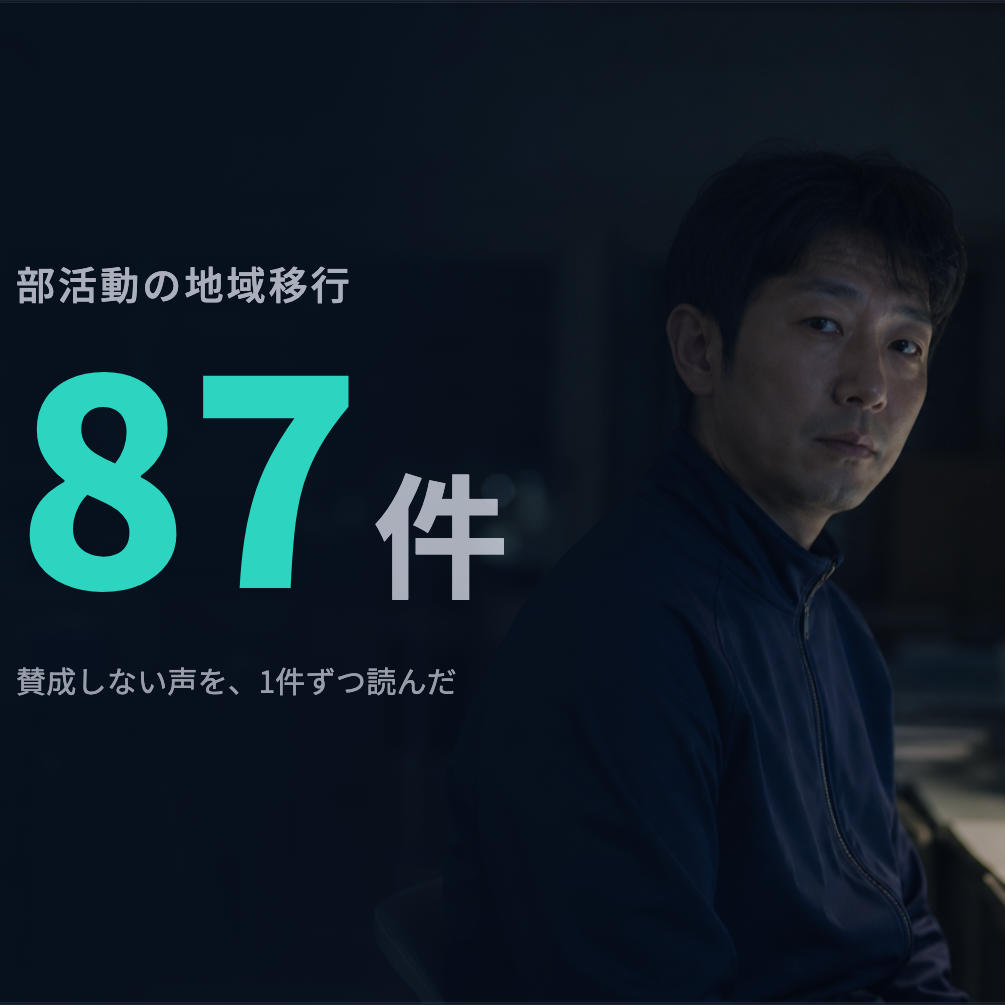
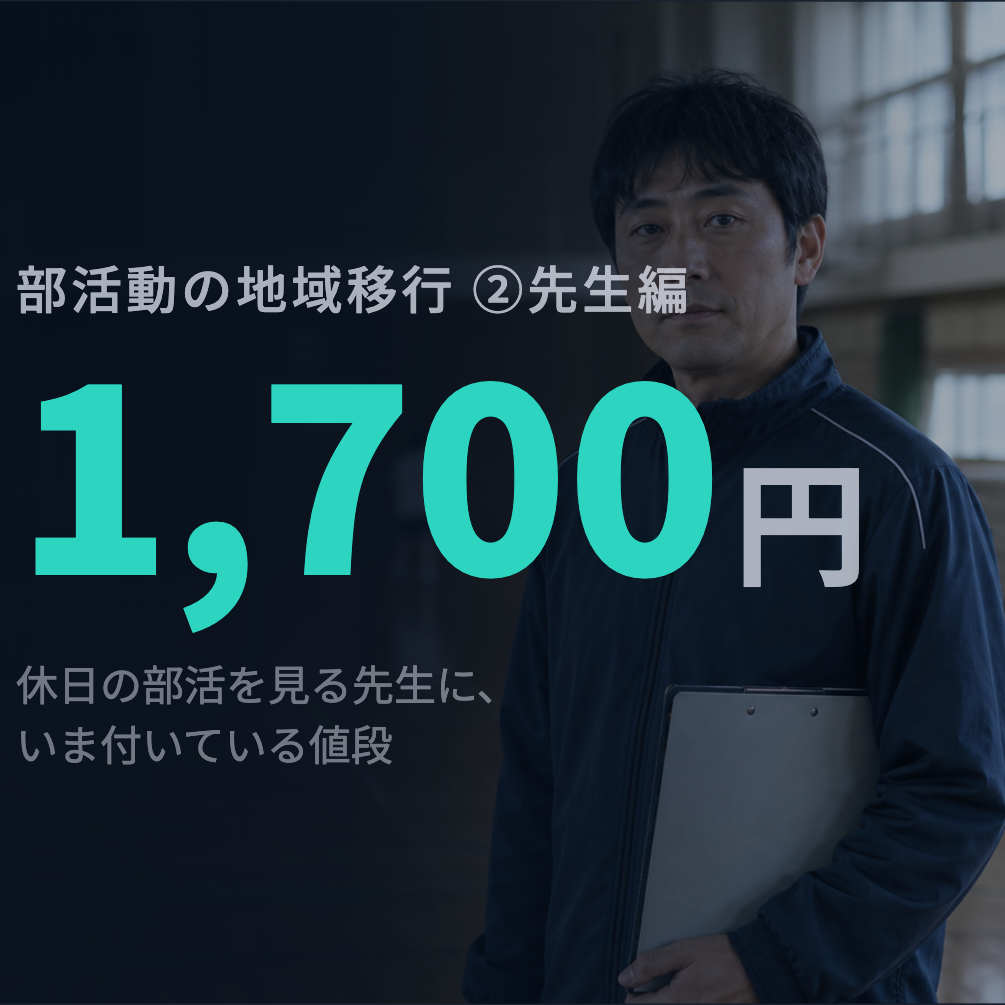
note: rebuild second bukatsu article images

diff --git a/content/note/drafts/figures/bukatsu2_fig2-reread.html b/content/note/drafts/figures/bukatsu2_fig2-reread.html
@@ -1,61 +1,6 @@
 <!doctype html>
-<html lang="ja">
-<head>
-  <meta charset="utf-8">
-  <meta name="viewport" content="width=1200, initial-scale=1">
-  <title>賛成していない87件を、言っている中身で分け直した</title>
-  <link rel="preconnect" href="https://fonts.googleapis.com">
-  <link rel="preconnect" href="https://fonts.gstatic.com" crossorigin>
-  <link href="https://fonts.googleapis.com/css2?family=Noto+Sans+JP:wght@400;500;700;900&display=swap" rel="stylesheet">
-  <style>
-    :root { --page:#07111E; --card-1:#0C1E35; --card-2:#0A1928; --card-3:#071522; --ink:#F0F4FF; --ink-70:rgba(240,244,255,.70); --ink-45:rgba(240,244,255,.45); --teal:#2DD4BF; --amber:#FBBF24; }
-    * { box-sizing:border-box; }
-    html,body { width:1200px; height:820px; margin:0; overflow:hidden; }
-    body { background:var(--page); color:var(--ink); font-family:'Noto Sans JP','Hiragino Kaku Gothic ProN',sans-serif; font-variant-numeric:tabular-nums; }
-    .canvas { position:relative; width:1200px; height:820px; padding:38px 52px 33px; overflow:hidden; border:1px solid rgba(255,255,255,.08); border-radius:16px; background:radial-gradient(circle at 86% 5%,rgba(45,212,191,.12) 0%,transparent 28%),linear-gradient(145deg,var(--card-1) 0%,var(--card-2) 60%,var(--card-3) 100%); }
-    .canvas::before { content:''; position:absolute; inset:0; background-image:linear-gradient(rgba(255,255,255,.025) 1px,transparent 1px),linear-gradient(90deg,rgba(255,255,255,.025) 1px,transparent 1px); background-size:48px 48px; pointer-events:none; }
-    .content { position:relative; z-index:1; }
-    h1 { margin:0; font-size:22px; font-weight:700; line-height:1.45; }
-    .subtitle { margin:4px 0 0; color:var(--ink-70); font-size:15px; line-height:1.5; }
-    .chart { position:relative; width:1096px; margin-top:30px; }
-    .grid-lines { position:absolute; left:318px; top:142px; width:500px; height:405px; pointer-events:none; background:repeating-linear-gradient(90deg,rgba(240,244,255,.06) 0 1px,transparent 1px 166.6667px); border-left:1px solid rgba(240,244,255,.06); }
-    .row { display:grid; grid-template-columns:250px 500px 70px; column-gap:16px; height:64px; }
-    .label,.bar-wrap,.value { display:flex; align-items:center; }
-    .label { justify-content:flex-end; color:var(--ink); font-size:15px; line-height:1.35; text-align:right; }
-    .bar-wrap { position:relative; }
-    .bar { height:48px; border-radius:0 4px 4px 0; }
-    .b30 { width:500px; background:var(--teal); }.b20 { width:333px; background:rgba(45,212,191,.70); }.b17 { width:283px; background:rgba(45,212,191,.62); }.b8 { width:133px; background:rgba(45,212,191,.40); }.b4 { width:67px; background:rgba(45,212,191,.28); }
-    .value { padding-left:2px; color:var(--ink-70); font-size:20px; font-weight:900; }
-    .value.primary { color:var(--teal); }
-    .axis { display:grid; grid-template-columns:250px 500px 70px; column-gap:16px; margin-top:2px; }
-    .axis-label { grid-column:2; display:flex; justify-content:space-between; width:500px; color:var(--ink-45); font-size:12px; line-height:1; }
-    .axis-unit { grid-column:3; align-self:end; color:var(--ink-45); font-size:12px; line-height:1; }
-    .bracket { position:absolute; left:894px; top:0; height:128px; display:flex; align-items:center; padding-left:24px; border-left:2px solid var(--amber); }
-    .bracket::before,.bracket::after { content:''; position:absolute; left:0; width:14px; border-top:2px solid var(--amber); }.bracket::before { top:8px; }.bracket::after { bottom:8px; }
-    .bracket-main { color:var(--amber); font-size:26px; font-weight:900; line-height:1.2; white-space:nowrap; }.bracket-sub { margin-top:4px; color:var(--ink-70); font-size:14px; line-height:1.35; white-space:nowrap; }
-    .notes { margin:29px 0 0 266px; color:var(--ink-45); font-size:12px; line-height:1.65; }
-    .credit { position:absolute; z-index:1; right:28px; bottom:20px; color:var(--ink-45); font-size:12px; letter-spacing:.08em; line-height:1; }
-  </style>
-</head>
-<body>
-  <main class="canvas" aria-label="賛成していない87件を、言っている中身で分け直した">
-    <div class="content">
-      <h1>賛成していない87件を、言っている中身で分け直した</h1>
-      <p class="subtitle">編集部が87件すべての本文を読んで分類しました</p>
-      <div class="grid-lines"></div>
-      <section class="chart" aria-label="87件の再読結果">
-        <div class="row"><div class="label">直すべきは移行ではなく制度と待遇</div><div class="bar-wrap"><div class="bar b30"></div></div><div class="value primary">30件</div></div>
-        <div class="row"><div class="label">移しても負担は減らない・<br>むしろ増える</div><div class="bar-wrap"><div class="bar b17"></div></div><div class="value">17件</div></div>
-        <div class="row"><div class="label">その他（実態の訴え・<br>分類が難しいもの）</div><div class="bar-wrap"><div class="bar b20"></div></div><div class="value">20件</div></div>
-        <div class="row"><div class="label">やりたい先生だけが担えばよい</div><div class="bar-wrap"><div class="bar b8"></div></div><div class="value">8件</div></div>
-        <div class="row"><div class="label">移行や廃止で失われるものへの不安</div><div class="bar-wrap"><div class="bar b8"></div></div><div class="value">8件</div></div>
-        <div class="row"><div class="label">移行ではなく部活そのものを<br>廃止すべき</div><div class="bar-wrap"><div class="bar b4"></div></div><div class="value">4件</div></div>
-        <div class="axis"><div class="axis-label"><span>0</span><span>10</span><span>20</span><span>30</span></div><div class="axis-unit">件</div></div>
-        <aside class="bracket"><div><div class="bracket-main">合わせて47件</div><div class="bracket-sub">87件の半分以上</div></div></aside>
-      </section>
-      <p class="notes">※編集部が87件すべての本文を読んで分類しました。キーワード抽出は使っていません<br>※「その他」は内容で分類できなかったものをまとめた区分のため、件数の順にかかわらず下に置いています</p>
-    </div>
-    <div class="credit">SNS反応まっぷ</div>
-  </main>
-</body>
-</html>
+<html lang="ja"><head><meta charset="utf-8"><meta name="viewport" content="width=800,initial-scale=1">
+<link href="https://fonts.googleapis.com/css2?family=Noto+Sans+JP:wght@400;500;700;900&display=swap" rel="stylesheet">
+<style>
+:root{--page:#07111E;--c1:#0C1E35;--c2:#0A1928;--c3:#071522;--ink:#F0F4FF;--i70:rgba(240,244,255,.70);--i45:rgba(240,244,255,.45);--teal:#2DD4BF;--amber:#FBBF24}*{box-sizing:border-box}html,body,.canvas{width:800px;height:1000px;margin:0;overflow:hidden}body{background:var(--page);color:var(--ink);font-family:'Noto Sans JP',sans-serif;font-variant-numeric:tabular-nums}.canvas{position:relative;padding:36px 40px;background:radial-gradient(circle at 86% 5%,rgba(45,212,191,.12),transparent 28%),linear-gradient(145deg,var(--c1),var(--c2) 60%,var(--c3));border:1px solid rgba(255,255,255,.08);border-radius:16px}.canvas:before{content:'';position:absolute;inset:0;background-image:linear-gradient(rgba(255,255,255,.025) 1px,transparent 1px),linear-gradient(90deg,rgba(255,255,255,.025) 1px,transparent 1px);background-size:48px 48px}.content{position:relative;z-index:1}h1{margin:0;font-size:44px;line-height:1.27}.sub{margin:10px 0 17px;color:var(--i70);font-size:26px;line-height:1.4}.chart{position:relative}.row{margin-bottom:10px}.label{margin-bottom:8px;font-size:30px;font-weight:500;line-height:1.25}.barline{display:flex;align-items:center;gap:14px}.bar{height:56px;border-radius:0 6px 6px 0}.v{font-size:48px;font-weight:900;line-height:1;white-space:nowrap;color:var(--i70)}.primary{color:var(--teal)}.a{width:444px;background:var(--teal)}.b{width:252px;background:rgba(45,212,191,.62)}.c{width:296px;background:rgba(45,212,191,.70)}.d{width:118px;background:rgba(45,212,191,.40)}.e{width:118px;background:rgba(45,212,191,.40)}.f{width:59px;background:rgba(45,212,191,.28)}.callout{display:flex;align-items:center;gap:18px;margin:8px 0 14px;padding:13px 0 13px 18px;border-left:2px solid var(--amber);border-top:2px solid var(--amber);border-bottom:2px solid var(--amber)}.callout b{color:var(--amber);font-size:44px;font-weight:900;line-height:1.15}.callout span{color:var(--i70);font-size:26px;line-height:1.3}.axis{display:flex;justify-content:space-between;width:444px;margin-top:-2px;color:var(--i45);font-size:24px}.notes{margin:10px 0 0;color:var(--i45);font-size:24px;line-height:1.4}.credit{position:absolute;z-index:1;right:28px;bottom:20px;color:var(--i45);font-size:24px;letter-spacing:.08em}
+</style></head><body><main class="canvas"><div class="content"><h1>賛成しなかった投稿を、<br>言っている中身で分け直した</h1><p class="sub">編集部が87件すべての本文を読んで分類しました</p><section class="chart"><div class="row"><div class="label">直すべきは制度と待遇</div><div class="barline"><div class="bar a"></div><b class="v primary">30件</b></div></div><div class="row"><div class="label">移しても負担は減らない</div><div class="barline"><div class="bar b"></div><b class="v">17件</b></div></div><div class="callout"><b>合わせて47件</b><span>87件の半分以上</span></div><div class="row"><div class="label">その他（分類が難しいもの）</div><div class="barline"><div class="bar c"></div><b class="v">20件</b></div></div><div class="row"><div class="label">やりたい先生だけが担う</div><div class="barline"><div class="bar d"></div><b class="v">8件</b></div></div><div class="row"><div class="label">失われるものへの不安</div><div class="barline"><div class="bar e"></div><b class="v">8件</b></div></div><div class="row"><div class="label">部活そのものを廃止すべき</div><div class="barline"><div class="bar f"></div><b class="v">4件</b></div></div><div class="axis"><span>0</span><span>30件</span></div></section><p class="notes">※編集部が87件すべての本文を読んで分類しました。キーワード抽出は使っていません<br>※「その他」は内容で分類できなかった区分のため、件数の順にかかわらず下に置いています</p></div><div class="credit">SNS反応まっぷ</div></main></body></html>

diff --git a/content/note/drafts/figures/bukatsu2_fig3-answer.html b/content/note/drafts/figures/bukatsu2_fig3-answer.html
@@ -1,57 +1,6 @@
 <!doctype html>
-<html lang="ja">
-<head>
-  <meta charset="utf-8">
-  <meta name="viewport" content="width=1200, initial-scale=1">
-  <title>87件の指摘と、資料の答え合わせ</title>
-  <link rel="preconnect" href="https://fonts.googleapis.com">
-  <link rel="preconnect" href="https://fonts.gstatic.com" crossorigin>
-  <link href="https://fonts.googleapis.com/css2?family=Noto+Sans+JP:wght@400;500;700;900&display=swap" rel="stylesheet">
-  <style>
-    :root { --page:#07111E; --card-1:#0C1E35; --card-2:#0A1928; --card-3:#071522; --ink:#F0F4FF; --ink-70:rgba(240,244,255,.70); --ink-45:rgba(240,244,255,.45); --red:#F87171; --amber:#FBBF24; --gray:#64748B; }
-    * { box-sizing:border-box; }
-    html,body { width:1200px; height:760px; margin:0; overflow:hidden; }
-    body { background:var(--page); color:var(--ink); font-family:'Noto Sans JP','Hiragino Kaku Gothic ProN',sans-serif; font-variant-numeric:tabular-nums; }
-    .canvas { position:relative; width:1200px; height:760px; padding:40px 52px 33px; overflow:hidden; border:1px solid rgba(255,255,255,.08); border-radius:16px; background:radial-gradient(circle at 86% 5%,rgba(45,212,191,.12) 0%,transparent 28%),linear-gradient(145deg,var(--card-1) 0%,var(--card-2) 60%,var(--card-3) 100%); }
-    .canvas::before { content:''; position:absolute; inset:0; background-image:linear-gradient(rgba(255,255,255,.025) 1px,transparent 1px),linear-gradient(90deg,rgba(255,255,255,.025) 1px,transparent 1px); background-size:48px 48px; pointer-events:none; }
-    .content { position:relative; z-index:1; }
-    h1 { margin:0 0 26px; font-size:22px; font-weight:700; line-height:1.45; }
-    .heading,.row { display:grid; grid-template-columns:32fr 48fr 20fr; column-gap:24px; }
-    .heading { padding:0 16px 10px; color:var(--ink-45); font-size:12px; line-height:1; }
-    .row { min-height:156px; padding:19px 16px 16px; border-top:1px solid rgba(255,255,255,.08); }
-    .statement { font-size:19px; font-weight:700; line-height:1.55; }
-    .count { margin-top:7px; color:var(--ink-45); font-size:13px; line-height:1.35; }
-    .evidence { font-size:15px; line-height:1.68; }
-    .source { margin-top:9px; color:var(--ink-45); font-size:11px; line-height:1.45; }
-    .verdict { align-self:center; font-size:20px; font-weight:900; line-height:1.4; }
-    .verdict.hit { color:var(--red); }.verdict.partial { color:var(--amber); }.verdict.open { color:var(--gray); }
-    .credit { position:absolute; z-index:1; right:28px; bottom:20px; color:var(--ink-45); font-size:12px; letter-spacing:.08em; line-height:1; }
-  </style>
-</head>
-<body>
-  <main class="canvas" aria-label="87件の指摘と、資料の答え合わせ">
-    <div class="content">
-      <h1>87件の指摘と、資料の答え合わせ</h1>
-      <div class="heading"><div>87件が言ったこと</div><div>資料はどうなっているか</div><div>判定</div></div>
-      <section aria-label="指摘と資料の比較">
-        <article class="row">
-          <div><div class="statement">移しても先生は出続ける</div><div class="count">17件</div></div>
-          <div><div class="evidence">国は教員の兼職兼業を「積極的に許可を行うことが必要」とし、先行した神栖市の指導者にも「兼職兼業の申請をした教職員」が明記されている</div><div class="source">出典：文科省ガイドライン／神栖市Q&amp;A</div></div>
-          <div class="verdict hit">当たっていた</div>
-        </article>
-        <article class="row">
-          <div><div class="statement">先生の時間に値段がついていない</div><div class="count">30件</div></div>
-          <div><div class="evidence">神栖市は1時間1,700円。ただし兼職兼業を許可する条件は「単月100時間、複数月平均80時間を超えないこと」</div><div class="source">出典：神栖市Q&amp;A／厚労省 労災認定基準</div></div>
-          <div class="verdict partial">半分だけ<br>答えが出た</div>
-        </article>
-        <article class="row">
-          <div><div class="statement">指導者は集まるのか</div></div>
-          <div><div class="evidence">国も「地域の多様な人材等から、質・量ともに十分な指導者を確保することが不可欠」と課題に挙げている</div><div class="source">出典：文科省ガイドライン</div></div>
-          <div class="verdict open">未解決</div>
-        </article>
-      </section>
-    </div>
-    <div class="credit">SNS反応まっぷ</div>
-  </main>
-</body>
-</html>
+<html lang="ja"><head><meta charset="utf-8"><meta name="viewport" content="width=800,initial-scale=1">
+<link href="https://fonts.googleapis.com/css2?family=Noto+Sans+JP:wght@400;500;700;900&display=swap" rel="stylesheet">
+<style>
+:root{--page:#07111E;--c1:#0C1E35;--c2:#0A1928;--c3:#071522;--ink:#F0F4FF;--i70:rgba(240,244,255,.70);--i45:rgba(240,244,255,.45);--red:#F87171;--amber:#FBBF24;--gray:#64748B}*{box-sizing:border-box}html,body,.canvas{width:800px;height:1100px;margin:0;overflow:hidden}body{background:var(--page);color:var(--ink);font-family:'Noto Sans JP',sans-serif;font-variant-numeric:tabular-nums}.canvas{position:relative;padding:38px 40px;background:radial-gradient(circle at 86% 5%,rgba(45,212,191,.12),transparent 28%),linear-gradient(145deg,var(--c1),var(--c2) 60%,var(--c3));border:1px solid rgba(255,255,255,.08);border-radius:16px}.canvas:before{content:'';position:absolute;inset:0;background-image:linear-gradient(rgba(255,255,255,.025) 1px,transparent 1px),linear-gradient(90deg,rgba(255,255,255,.025) 1px,transparent 1px);background-size:48px 48px}.content{position:relative;z-index:1}h1{margin:0 0 20px;font-size:44px;line-height:1.3}.item{padding:24px 0 26px;border-top:1px solid rgba(255,255,255,.08)}.worry{font-size:30px;font-weight:700;line-height:1.35}.count{margin-left:10px;color:var(--i45);font-size:26px;font-weight:400}.evidence{margin-top:12px;color:var(--i70);font-size:30px;line-height:1.45}.result{margin-top:13px;font-size:44px;font-weight:900;line-height:1.15}.hit{color:var(--red)}.partial{color:var(--amber)}.open{color:var(--gray)}.source{margin-top:8px;color:var(--i45);font-size:24px;line-height:1.35}.credit{position:absolute;z-index:1;right:28px;bottom:20px;color:var(--i45);font-size:24px;letter-spacing:.08em}
+</style></head><body><main class="canvas"><div class="content"><h1>87件の指摘と、資料の答え合わせ</h1><article class="item"><div class="worry">心配　移しても先生は出続ける<span class="count">17件</span></div><div class="evidence">国は兼職兼業を「積極的に許可」。<br>神栖市も教職員の指導者を明記</div><div class="result hit">当たっていた</div><div class="source">出典：文科省ガイドライン／神栖市Q&amp;A</div></article><article class="item"><div class="worry">心配　先生の時間に値段がついていない<span class="count">30件</span></div><div class="evidence">神栖市は1時間1,700円。許可の条件は<br>単月100時間、複数月平均80時間まで</div><div class="result partial">半分だけ答えが出た</div><div class="source">出典：神栖市Q&amp;A／厚労省 労災認定基準</div></article><article class="item"><div class="worry">心配　指導者は集まるのか</div><div class="evidence">国も、十分な指導者の確保は<br>不可欠な課題だと挙げている</div><div class="result open">未解決</div><div class="source">出典：文科省ガイドライン</div></article></div><div class="credit">SNS反応まっぷ</div></main></body></html>

diff --git a/content/note/drafts/figures/bukatsu2_fig1-227.html b/content/note/drafts/figures/bukatsu2_fig1-227.html
@@ -1,53 +1,6 @@
 <!doctype html>
-<html lang="ja">
-<head>
-  <meta charset="utf-8">
-  <meta name="viewport" content="width=1200, initial-scale=1">
-  <title>先生の負担を語る227件の内訳</title>
-  <link rel="preconnect" href="https://fonts.googleapis.com">
-  <link rel="preconnect" href="https://fonts.gstatic.com" crossorigin>
-  <link href="https://fonts.googleapis.com/css2?family=Noto+Sans+JP:wght@400;500;700;900&display=swap" rel="stylesheet">
-  <style>
-    :root { --page:#07111E; --card-1:#0C1E35; --card-2:#0A1928; --card-3:#071522; --ink:#F0F4FF; --ink-70:rgba(240,244,255,.70); --ink-45:rgba(240,244,255,.45); --teal:#2DD4BF; --red:#F87171; --amber:#FBBF24; --gray:#64748B; }
-    * { box-sizing:border-box; }
-    html, body { width:1200px; height:380px; margin:0; overflow:hidden; }
-    body { background:var(--page); color:var(--ink); font-family:'Noto Sans JP','Hiragino Kaku Gothic ProN',sans-serif; font-variant-numeric:tabular-nums; }
-    .canvas { position:relative; width:1200px; height:380px; padding:42px 52px 34px; overflow:hidden; border:1px solid rgba(255,255,255,.08); border-radius:16px; background:radial-gradient(circle at 86% 5%,rgba(45,212,191,.12) 0%,transparent 28%),linear-gradient(145deg,var(--card-1) 0%,var(--card-2) 60%,var(--card-3) 100%); }
-    .canvas::before { content:''; position:absolute; inset:0; background-image:linear-gradient(rgba(255,255,255,.025) 1px,transparent 1px),linear-gradient(90deg,rgba(255,255,255,.025) 1px,transparent 1px); background-size:48px 48px; pointer-events:none; }
-    .content { position:relative; z-index:1; }
-    h1 { margin:0; color:var(--ink); font-size:28px; font-weight:700; line-height:1.4; }
-    .bar { display:flex; gap:2px; height:72px; margin-top:28px; overflow:hidden; border-radius:8px; background:rgba(7,17,30,.72); }
-    .segment { display:flex; align-items:center; justify-content:center; min-width:0; color:#07111E; font-size:24px; font-weight:700; line-height:1; }
-    .support { flex:136 1 0; background:var(--teal); }
-    .cautious { flex:44 1 0; background:var(--red); }
-    .conditional { flex:43 1 0; background:var(--amber); }
-    .neutral { flex:4 1 0; background:var(--gray); }
-    .legend { display:flex; align-items:center; gap:22px; margin-top:26px; color:var(--ink-70); font-size:19px; line-height:1.35; white-space:nowrap; }
-    .legend-item { display:flex; align-items:center; gap:9px; }
-    .dot { width:10px; height:10px; flex:0 0 auto; border-radius:3px; }
-    .dot.support { background:var(--teal); }.dot.cautious { background:var(--red); }.dot.conditional { background:var(--amber); }.dot.neutral { background:var(--gray); }
-    .count { color:var(--ink); font-weight:700; }
-    .credit { position:absolute; z-index:1; right:28px; bottom:20px; color:var(--ink-45); font-size:12px; letter-spacing:.08em; line-height:1; }
-  </style>
-</head>
-<body>
-  <main class="canvas" aria-label="先生の負担を語る227件の内訳">
-    <div class="content">
-      <h1>先生の負担を語る227件の内訳</h1>
-      <div class="bar" role="img" aria-label="移行支持136件、慎重・反対44件、条件付き・改善要求43件、中立・情報4件">
-        <div class="segment support">136件</div>
-        <div class="segment cautious">44件</div>
-        <div class="segment conditional">43件</div>
-        <div class="segment neutral" aria-label="中立・情報4件"></div>
-      </div>
-      <div class="legend" aria-label="凡例">
-        <div class="legend-item"><span class="dot support"></span><span>移行支持</span><span class="count">136件</span></div>
-        <div class="legend-item"><span class="dot cautious"></span><span>慎重・反対</span><span class="count">44件</span></div>
-        <div class="legend-item"><span class="dot conditional"></span><span>条件付き・改善要求</span><span class="count">43件</span></div>
-        <div class="legend-item"><span class="dot neutral"></span><span>中立・情報</span><span class="count">4件</span></div>
-      </div>
-    </div>
-    <div class="credit">SNS反応まっぷ</div>
-  </main>
-</body>
-</html>
+<html lang="ja"><head><meta charset="utf-8"><meta name="viewport" content="width=800,initial-scale=1">
+<link href="https://fonts.googleapis.com/css2?family=Noto+Sans+JP:wght@400;500;700;900&display=swap" rel="stylesheet">
+<style>
+:root{--page:#07111E;--c1:#0C1E35;--c2:#0A1928;--c3:#071522;--ink:#F0F4FF;--i70:rgba(240,244,255,.70);--i45:rgba(240,244,255,.45);--teal:#2DD4BF;--red:#F87171;--amber:#FBBF24;--gray:#64748B}*{box-sizing:border-box}html,body,.canvas{width:800px;height:420px;margin:0;overflow:hidden}body{background:var(--page);color:var(--ink);font-family:'Noto Sans JP',sans-serif;font-variant-numeric:tabular-nums}.canvas{position:relative;padding:38px 40px;background:radial-gradient(circle at 86% 5%,rgba(45,212,191,.12),transparent 28%),linear-gradient(145deg,var(--c1),var(--c2) 60%,var(--c3));border:1px solid rgba(255,255,255,.08);border-radius:16px}.canvas:before{content:'';position:absolute;inset:0;background-image:linear-gradient(rgba(255,255,255,.025) 1px,transparent 1px),linear-gradient(90deg,rgba(255,255,255,.025) 1px,transparent 1px);background-size:48px 48px}h1,.bar,.legend{position:relative;z-index:1}h1{margin:0;font-size:44px;line-height:1.25}.bar{display:flex;gap:2px;height:90px;margin-top:28px;background:rgba(7,17,30,.72);border-radius:10px;overflow:hidden}.seg{display:flex;align-items:center;justify-content:center;color:#07111E;font-size:34px;font-weight:900}.a{flex:136;background:var(--teal)}.b{flex:44;background:var(--red)}.c{flex:43;background:var(--amber)}.d{flex:4;background:var(--gray)}.legend{display:grid;grid-template-columns:380px 1fr;gap:14px 12px;margin-top:28px;color:var(--i70);font-size:30px;font-weight:500;line-height:1.15}.item{display:flex;align-items:center;gap:10px;white-space:nowrap}.dot{width:16px;height:16px;border-radius:4px;flex:none}.item b{color:var(--ink);font-weight:700}.credit{position:absolute;z-index:1;right:28px;bottom:20px;color:var(--i45);font-size:24px;letter-spacing:.08em}
+</style></head><body><main class="canvas"><h1>先生の負担を語る227件の内訳</h1><div class="bar"><div class="seg a">136件</div><div class="seg b">44件</div><div class="seg c">43件</div><div class="seg d"></div></div><div class="legend"><div class="item"><i class="dot" style="background:var(--teal)"></i>移行支持 <b>136件</b></div><div class="item"><i class="dot" style="background:var(--red)"></i>慎重・反対 <b>44件</b></div><div class="item"><i class="dot" style="background:var(--amber)"></i>条件付き・改善要求 <b>43件</b></div><div class="item"><i class="dot" style="background:var(--gray)"></i>中立・情報 <b>4件</b></div></div><div class="credit">SNS反応まっぷ</div></main></body></html>

diff --git a/content/note/drafts/figures/bukatsu2_note-header.html b/content/note/drafts/figures/bukatsu2_note-header.html
@@ -1,123 +1,3 @@
-<!doctype html>
-<html lang="ja">
-<head>
-  <meta charset="utf-8">
-  <meta name="viewport" content="width=1280, initial-scale=1">
-  <title>部活動の地域移行｜賛成しない声を読む</title>
-  <link rel="preconnect" href="https://fonts.googleapis.com">
-  <link rel="preconnect" href="https://fonts.gstatic.com" crossorigin>
-  <link href="https://fonts.googleapis.com/css2?family=Noto+Sans+JP:wght@400;500;700;900&display=swap" rel="stylesheet">
-  <style>
-    :root {
-      --page: #07111E;
-      --ink: #F0F4FF;
-      --ink-70: rgba(240,244,255,0.70);
-      --ink-45: rgba(240,244,255,0.45);
-      --teal: #2DD4BF;
-    }
-    * { box-sizing: border-box; }
-    html, body { width: 1280px; height: 670px; margin: 0; overflow: hidden; }
-    body {
-      background: var(--page);
-      color: var(--ink);
-      font-family: 'Noto Sans JP', 'Hiragino Kaku Gothic ProN', sans-serif;
-      font-variant-numeric: tabular-nums;
-    }
-    .canvas {
-      position: relative;
-      width: 1280px;
-      height: 670px;
-      overflow: hidden;
-      border: 1px solid rgba(255,255,255,0.08);
-      border-radius: 16px;
-      background: var(--page);
-    }
-    .photo, .gradient, .shade {
-      position: absolute;
-      inset: 0;
-      width: 100%;
-      height: 100%;
-      pointer-events: none;
-    }
-    .photo { object-fit: cover; object-position: center center; }
-    .gradient {
-      background: linear-gradient(90deg, rgba(7,17,30,0.94) 0%, rgba(7,17,30,0.86) 42%, rgba(7,17,30,0.15) 72%, rgba(7,17,30,0) 100%);
-    }
-    .shade { background: rgba(7,17,30,0.25); }
-    .canvas::before {
-      content: '';
-      position: absolute;
-      z-index: 1;
-      inset: 0;
-      border: 1px solid rgba(255,255,255,0.08);
-      pointer-events: none;
-    }
-    .content {
-      position: absolute;
-      z-index: 2;
-      top: 170px;
-      left: 315px;
-      width: 650px;
-      text-align: left;
-    }
-    .eyebrow {
-      margin: 0 0 14px;
-      color: var(--ink-70);
-      font-size: 26px;
-      font-weight: 500;
-      letter-spacing: .08em;
-      line-height: 1.35;
-    }
-    .count {
-      display: flex;
-      align-items: baseline;
-      height: 202px;
-      color: var(--teal);
-      font-weight: 900;
-      letter-spacing: -.04em;
-      line-height: .95;
-      white-space: nowrap;
-    }
-    .number { font-size: 190px; }
-    .unit {
-      margin-left: 8px;
-      color: var(--ink-70);
-      font-size: 90px;
-      font-weight: 700;
-      letter-spacing: -.02em;
-    }
-    .subtitle {
-      margin: 18px 0 0;
-      color: rgba(240,244,255,0.62);
-      font-size: 20px;
-      font-weight: 400;
-      letter-spacing: .01em;
-      line-height: 1.4;
-      white-space: nowrap;
-    }
-    .credit {
-      position: absolute;
-      z-index: 2;
-      right: 28px;
-      bottom: 20px;
-      color: var(--ink-45);
-      font-size: 12px;
-      letter-spacing: .08em;
-      line-height: 1;
-    }
-  </style>
-</head>
-<body>
-  <main class="canvas" aria-label="部活動の地域移行、賛成しない声を読む">
-    <img class="photo" src="../photos/teacher-staffroom-night.png" alt="夜の職員室で机から振り返る学校教員">
-    <div class="gradient" aria-hidden="true"></div>
-    <div class="shade" aria-hidden="true"></div>
-    <div class="content">
-      <p class="eyebrow">部活動の地域移行</p>
-      <div class="count" aria-label="87件"><span class="number">87</span><span class="unit">件</span></div>
-      <p class="subtitle">賛成しない声を、1件ずつ読んだ</p>
-    </div>
-    <div class="credit">SNS反応まっぷ</div>
-  </main>
-</body>
-</html>
+<!doctype html><html lang="ja"><head><meta charset="utf-8"><meta name="viewport" content="width=1280,initial-scale=1"><link rel="preconnect" href="https://fonts.googleapis.com"><link rel="preconnect" href="https://fonts.gstatic.com" crossorigin><link href="https://fonts.googleapis.com/css2?family=Noto+Sans+JP:wght@400;500;700;900&display=swap" rel="stylesheet"><style>
+:root{--page:#07111E;--ink:#F0F4FF;--ink-70:rgba(240,244,255,.70);--ink-45:rgba(240,244,255,.45);--teal:#2DD4BF}*{box-sizing:border-box}html,body,.canvas{width:1280px;height:670px;margin:0;overflow:hidden}body{background:var(--page);font-family:'Noto Sans JP',sans-serif;font-variant-numeric:tabular-nums}.canvas{position:relative;background:var(--page);border:1px solid rgba(255,255,255,.08);border-radius:16px}.photo,.gradient,.shade{position:absolute;inset:0;width:100%;height:100%}.photo{object-fit:cover;object-position:center}.gradient{background:linear-gradient(90deg,rgba(7,17,30,.94) 0%,rgba(7,17,30,.86) 42%,rgba(7,17,30,.15) 72%,transparent 100%)}.shade{background:rgba(7,17,30,.25)}.content{position:absolute;z-index:1;left:315px;top:168px;width:650px;color:var(--ink)}.eyebrow{margin:0 0 14px;color:var(--ink-70);font-size:34px;font-weight:500;letter-spacing:.08em;line-height:1.35}.price{display:flex;align-items:baseline;height:188px;font-weight:900;line-height:.95;letter-spacing:-.045em;white-space:nowrap}.number{color:var(--teal);font-size:170px}.unit{margin-left:8px;color:var(--ink-70);font-size:90px;font-weight:700;letter-spacing:-.02em}.subtitle{margin:18px 0 0;color:var(--ink-45);font-size:28px;font-weight:400;line-height:1.45}.credit{position:absolute;z-index:1;right:28px;bottom:20px;color:var(--ink-45);font-size:12px;letter-spacing:.08em}
+</style></head><body><main class="canvas" aria-label="部活動の地域移行、休日の部活を見る先生にいま付いている値段"><img class="photo" src="../photos/teacher-saturday-gym.png" alt="土曜朝の体育館に立つ学校教員"><div class="gradient"></div><div class="shade"></div><div class="content"><p class="eyebrow">部活動の地域移行 ②先生編</p><div class="price"><span class="number">1,700</span><span class="unit">円</span></div><p class="subtitle">休日の部活を見る先生に、<br>いま付いている値段</p></div><div class="credit">SNS反応まっぷ</div></main></body></html>
